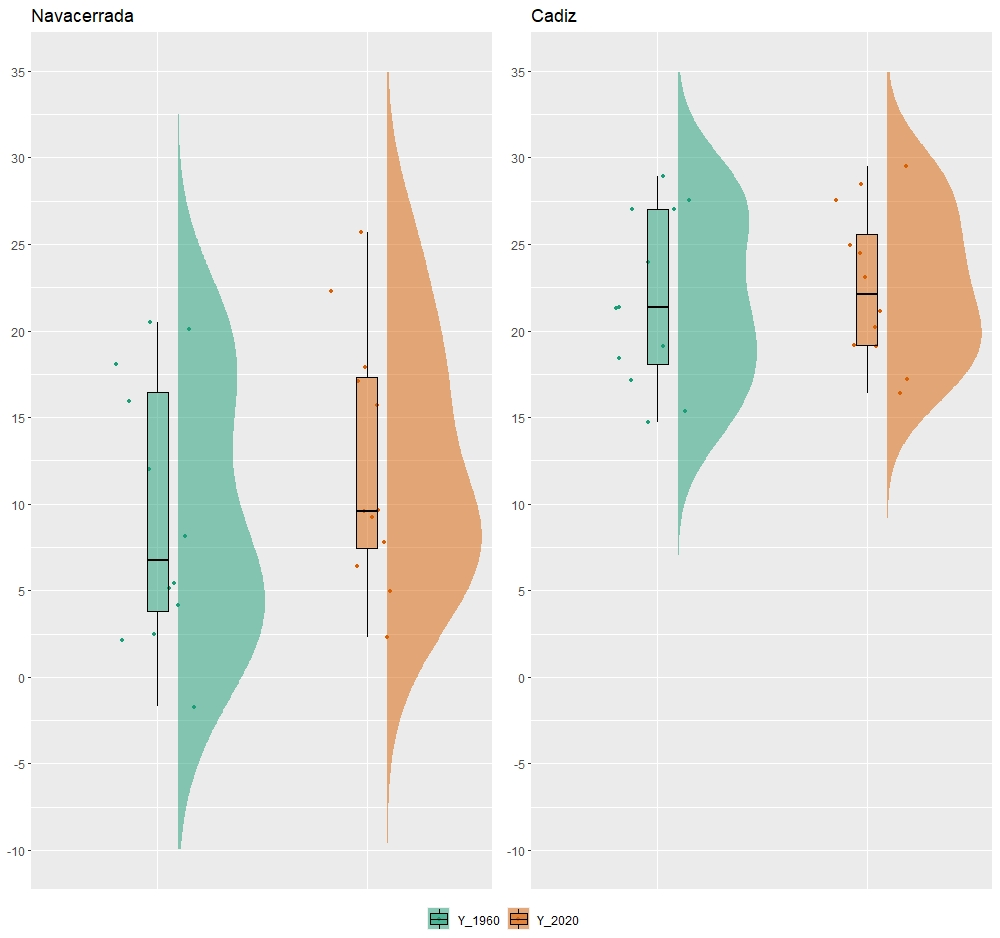
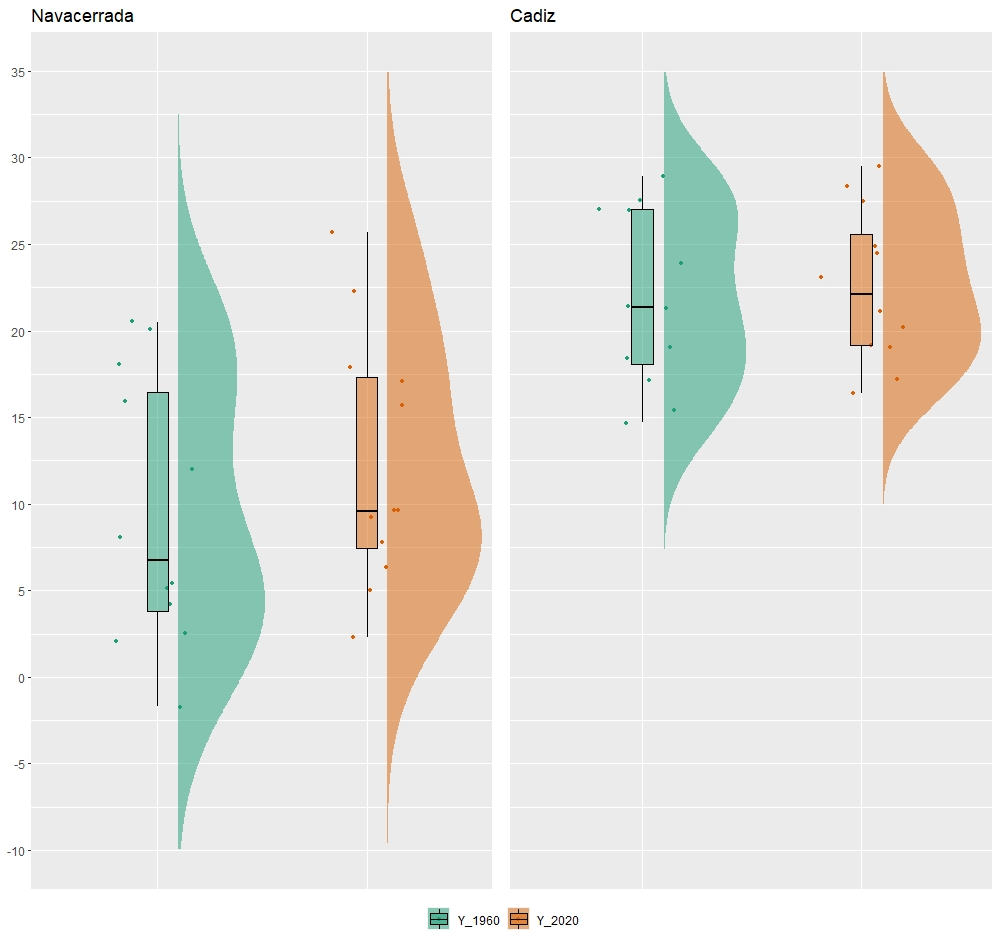
new

Changed region(s): [[0.62, 0.0618, 0.775, 0.5565], [0.837, 0.0618, 0.93, 0.5256], [0.496, 0.0, 0.589, 0.0309]]

diff --git a/content/post/Boxplot/index.md b/content/post/Boxplot/index.md
@@ -130,8 +130,10 @@ cadiz <-
     legend.title = element_blank(),
     axis.title.x = element_blank(),
     axis.text.x = element_blank(),
+    axis.ticks.x = element_blank(),
     axis.title.y = element_blank(),
-    axis.ticks.x = element_blank()
+    axis.text.y = element_blank(),
+    axis.ticks.y = element_blank()
   )
 
 ggarrange(navacerrada, cadiz, common.legend = TRUE, legend = "bottom")
